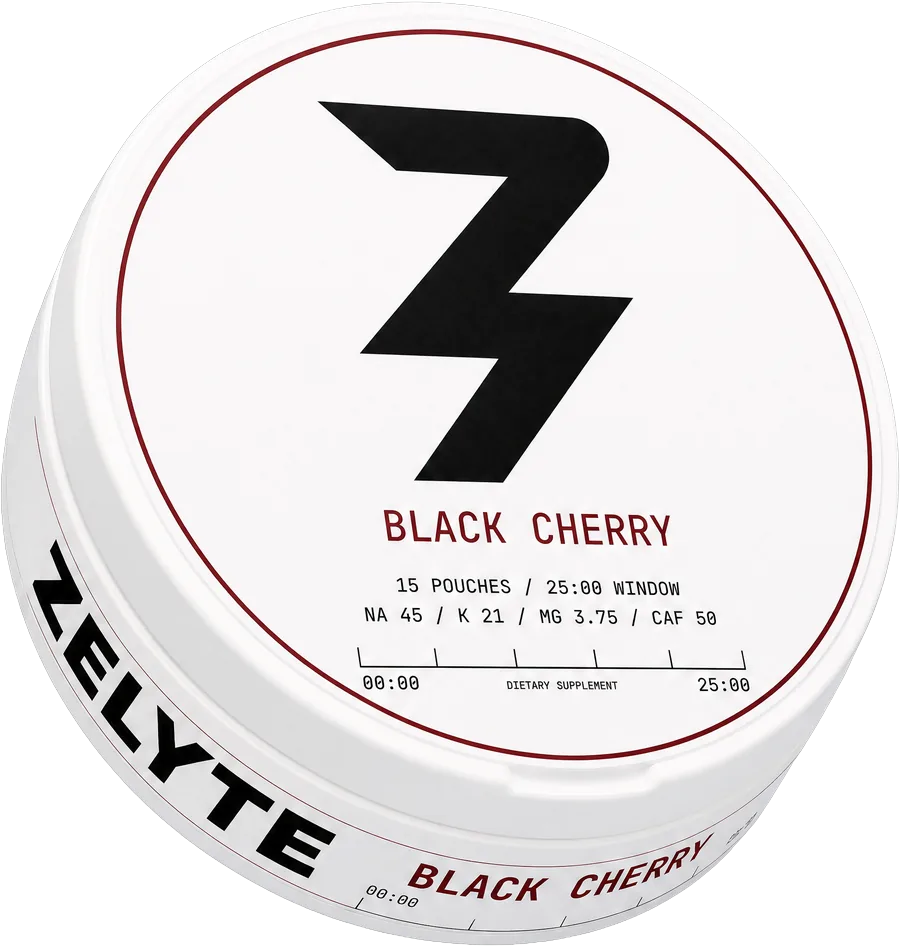
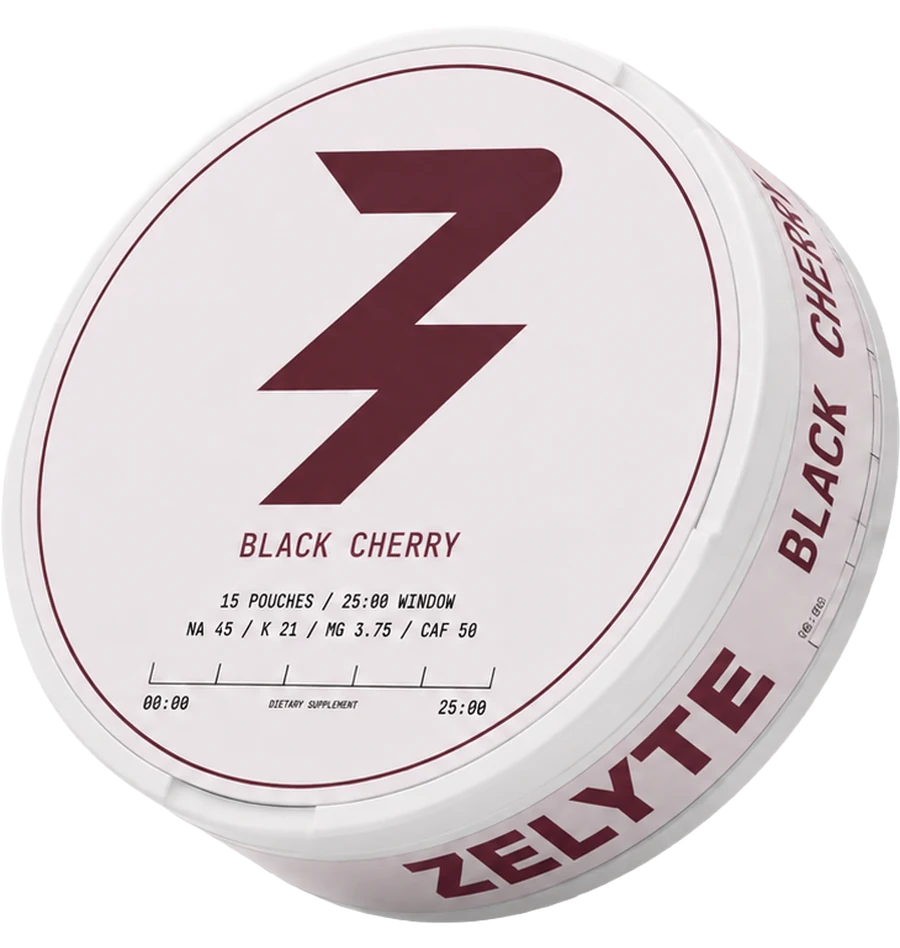
Swap in the new Black Cherry tin render
Replaces assets/img/tin-cherry.webp, so all four Black Cherry call sites update
together: both flavors grids, the PDP hero, and the cross-sell on
crispy-mint.html. Black Cherry has no hero orbit, so it has four where Crispy
Mint had six.

This is the counterpart to 95d3640 and closes the gap it opened. Since that
commit the two flavor cards have sat side by side showing different treatments:
mint tilted with a blue Z, Black Cherry the old shot with the lid flat-up and a
black Z rather than the cherry maroon. Now both read as one product line.

Same crop-and-renormalise the mint render got, with the numbers rederived.
BLACK_CHERRY_NEW_TIN.png is from that same batch — 1448x1086, tin filling only
50.4% of canvas width — so a raw drop-in would have rendered the hero tin at
half size. Cropped to its alpha box at 730x730, scaled to 900 wide, centred in
a 900x948 canvas with 24px of pad top and bottom. WebP q=88 is 70KB against the
58KB it replaces, in line with mint's 71KB.

The render is exactly square, so content lands at 900x900 where mint's is
900x912. Width is the normalised dimension and that is what matters: .sku__img
img sizes by height with width:auto, so both cards render an identical 265.82px
visible tin width at 1440. The 3.5px height difference is a property of the two
renders. Normalising height instead would have pushed this tin to 912 wide and
overflowed the canvas.

Output matches the old file's dimensions and content width exactly, so no CSS
[…]

diff --git a/black-cherry.html b/black-cherry.html
@@ -65,7 +65,7 @@
       <div class="wrap">
         <div class="pdp__hero">
           <div class="pdp__stage">
-            <img class="pdp__tin" id="pdp-tin" src="assets/img/tin-cherry.webp" width="900" height="948" alt="A ZELYTE tin in Black Cherry, lid facing up." fetchpriority="high" decoding="async">
+            <img class="pdp__tin" id="pdp-tin" src="assets/img/tin-cherry.webp" width="900" height="948" alt="A ZELYTE tin in Black Cherry, tilted to show the lid and side." fetchpriority="high" decoding="async">
           </div>
           <div class="pdp__copy">
             <p class="pdp__chip reveal">Zero sugar</p>
